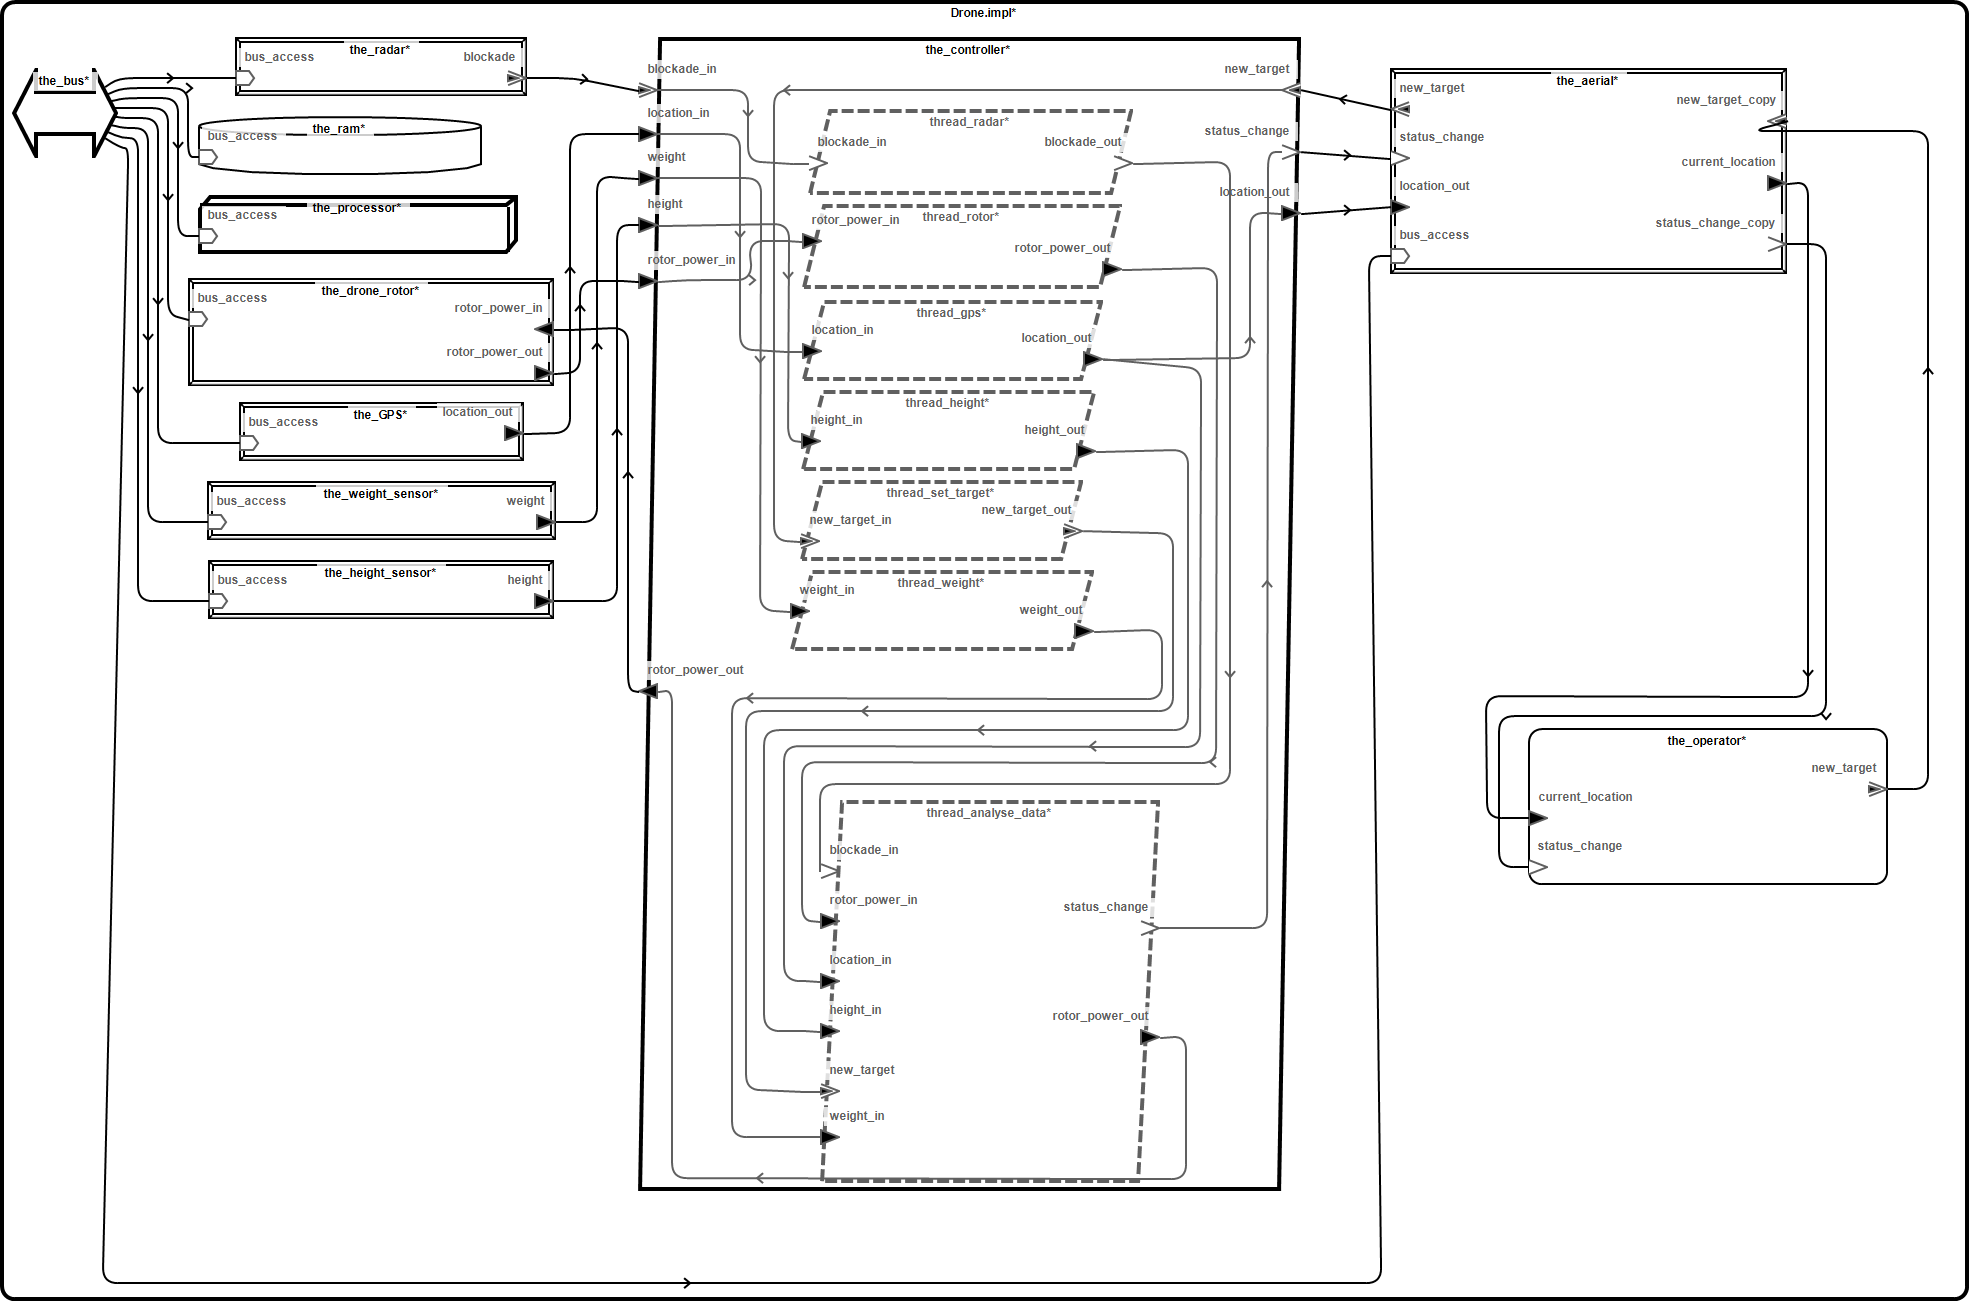
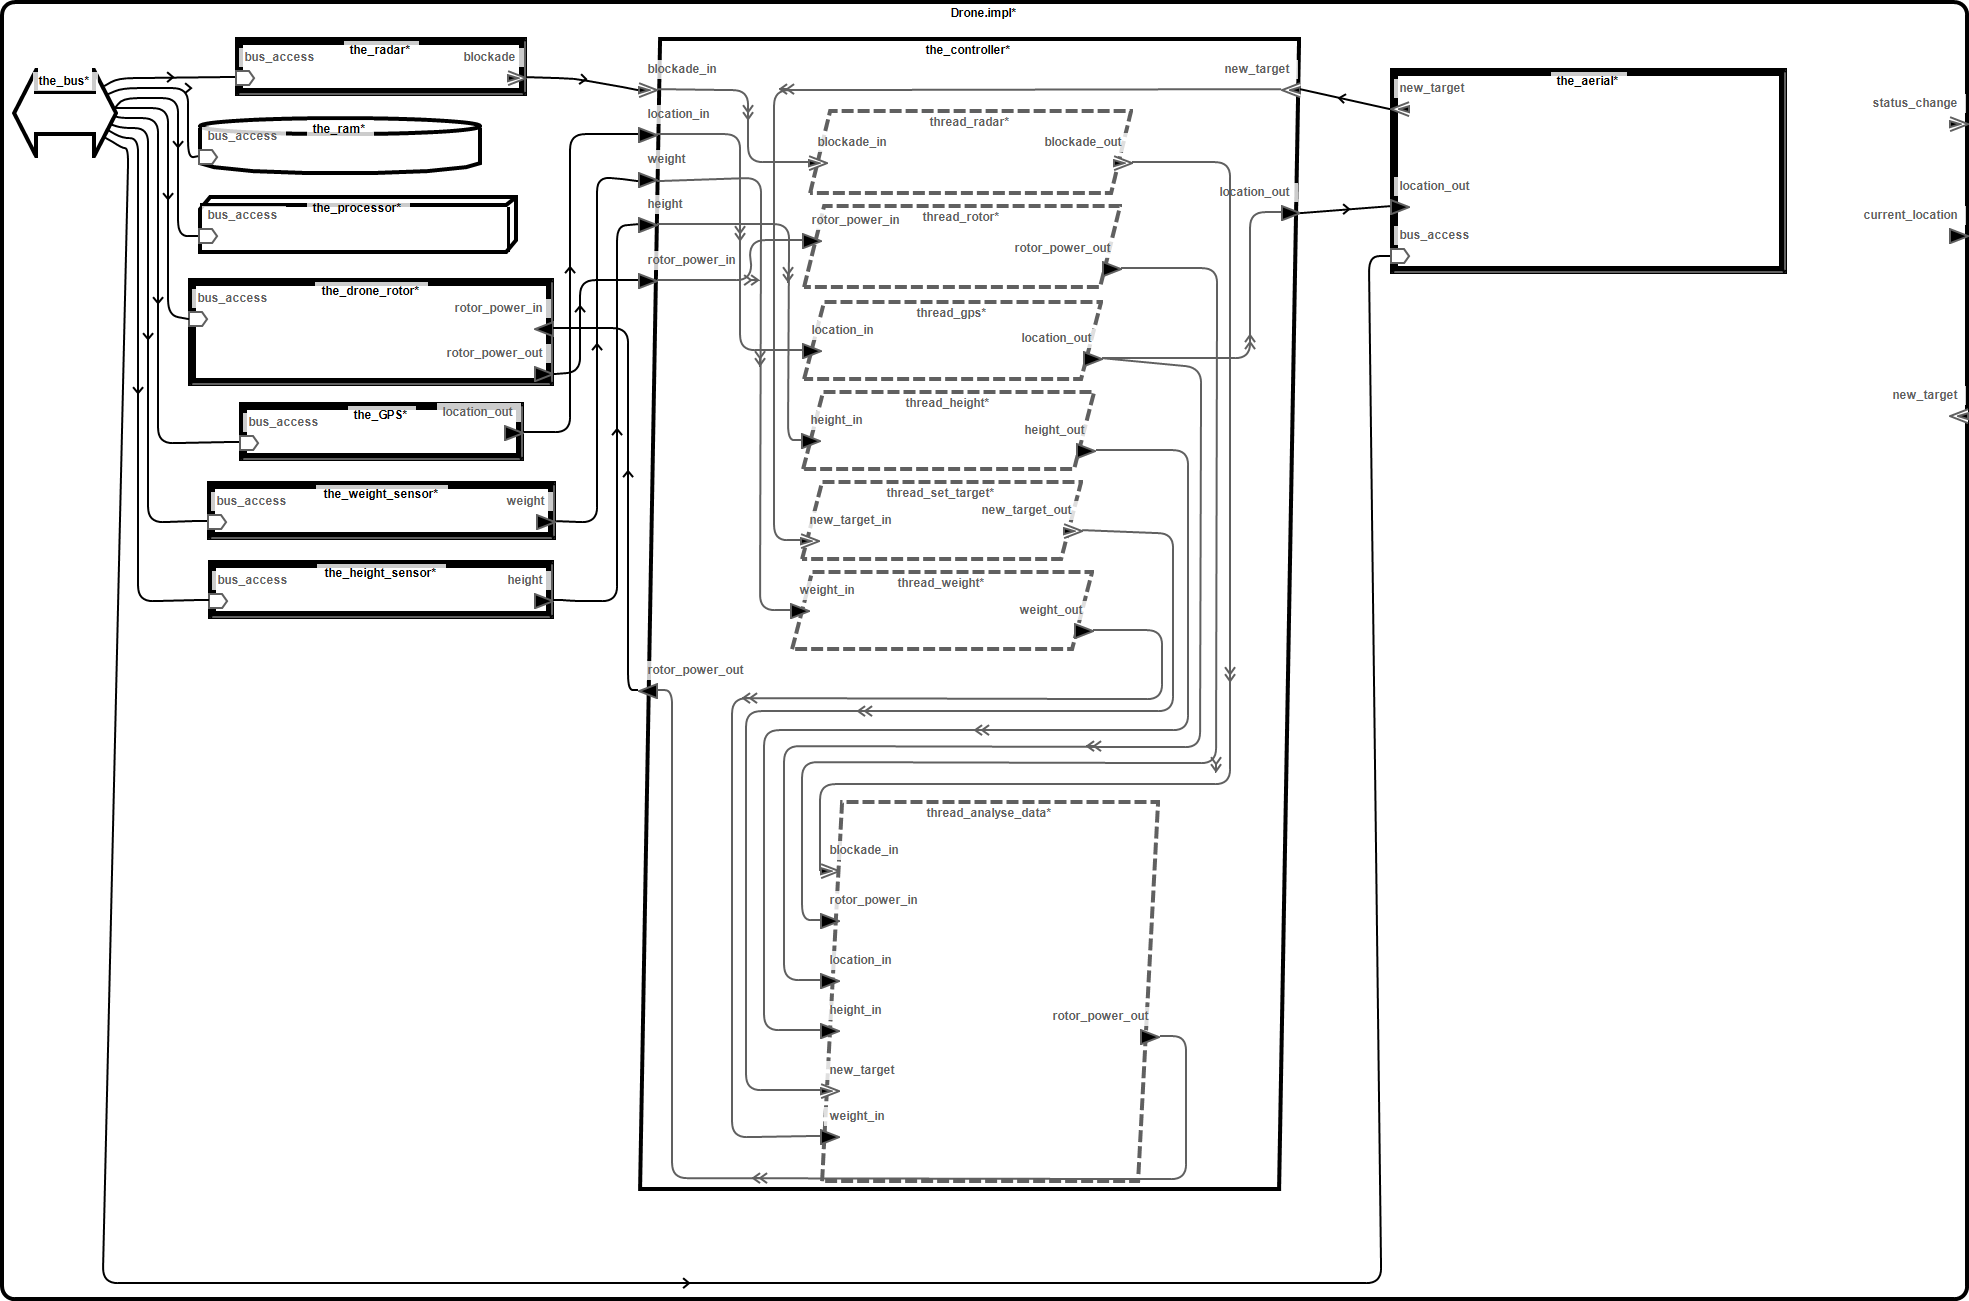
diagrams

diff --git a/README.md b/README.md
@@ -8,4 +8,10 @@ operatora, zawraca i wraca do punktu A bez dostarczania przesyłki (np. w przypa
 
 ### Model AADL
 
+#### Drone Implementation
+
 ![Screenshot](https://github.com/jserweta/DroneSystem/blob/master/drone_structure_diagram.png)
+
+#### Operator Implementation and connections with Drone
+
+![Screenshot](https://github.com/jserweta/DroneSystem/blob/master/operator_diagram.png)
